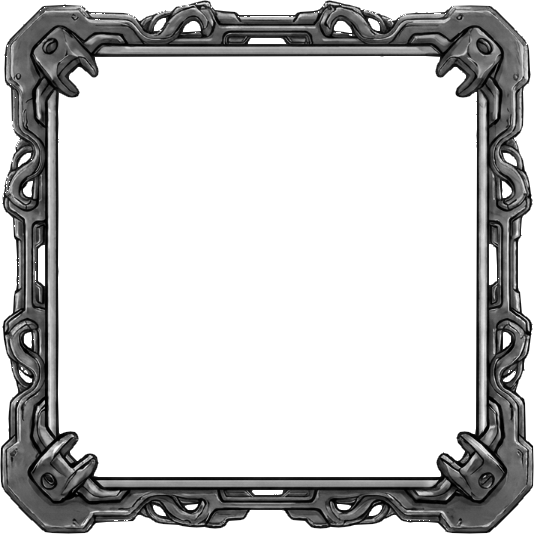
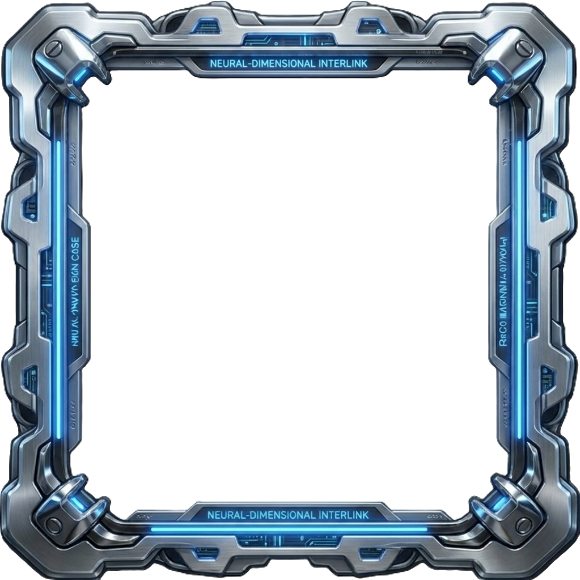
feat: card mejorada en diseño

diff --git a/static/css/style.css b/static/css/style.css
@@ -38,6 +38,8 @@ body {
     font-family: 'Gill Sans', 'Gill Sans MT', Calibri, 'Trebuchet MS', sans-serif;
     background: var(--bg-page);
     color: var(--text);
+    display:grid;
+    gap: var(--gap-2);
 }
 
 img {
@@ -90,9 +92,10 @@ img {
 
 /* CARD */
 .card {
+
     display: grid;
     position: relative;
-    gap: var(--gap-2);
+    gap: var(--gap-1);
 
     box-shadow: 0 4px 12px var(--shadow);
     transition: transform 0.2s ease, border-color 0.2s ease;
@@ -139,13 +142,18 @@ img {
 .card__fila {
 
     padding: var(--gap-1);
-    border: 1px solid rgba(255, 166, 0, 0.5);
+    border: 2px solid transparent;          /* borde transparente */
+
     display: flex;
-    background: #FFF1;
     border-radius: 1rem / 100%;
     justify-content: space-between;
     animation: crecer 0.3s ease forwards;
+  
     /* se ejecuta al inicio */
+      background: 
+    linear-gradient(30deg,#444, #000, #444) padding-box, 
+    linear-gradient(30deg,orange, red, blue) border-box;
+
 }
 
 @keyframes crecer {
@@ -207,16 +215,24 @@ img {
     font-weight: bold;
 }
 
-.estado--Dead {
+.imagen--Dead {
     filter: grayscale(100%);
 }
 
-.estado--Male {
-    filter: sepia(100%) saturate(200%) hue-rotate(180deg);
+.retrato--Male {
+    filter: hue-rotate(180deg);
 }
 
-.estado--Female {
-    filter: sepia(100%) saturate(200%) hue-rotate(300deg);
+.retrato--Female {
+    filter: hue-rotate(320deg);
 }
 
-.estado--unknown {}
+.estado--Dead {
+    color:#F66;
+}
+.estado--Alive {
+    color:#6F6;
+}
+.estado--unknown {
+    color:gray;
+}

diff --git a/index.html b/index.html
@@ -13,8 +13,8 @@
   <script type="text/template" id="character-template">
     <article class="card">
       <div class="card__retrato">
-        <img class="card__imagen estado--{{status}}" src="{{image}}">
-        <img class="card__canvas estado--{{gender}}" src="static/img/canvas.png">
+        <img class="card__imagen imagen--{{status}}" src="{{image}}">
+        <img class="card__canvas retrato--{{gender}}" src="static/img/canvas.png">
       </div>
 
       <div class="card__fila">
@@ -34,7 +34,7 @@
         <div class="card__fila--izquierda">
           <img class="card__icono" src="static/img/estado.png">
           <h3 class="card__campo">Estado</h3>
-          <p class="card__valor">{{status}}</p>
+          <p class="card__valor estado--{{status}}">{{status}}</p>
         </div>
         <div class="card__fila--derecha">
           <img class="card__icono" src="static/img/origen.png">